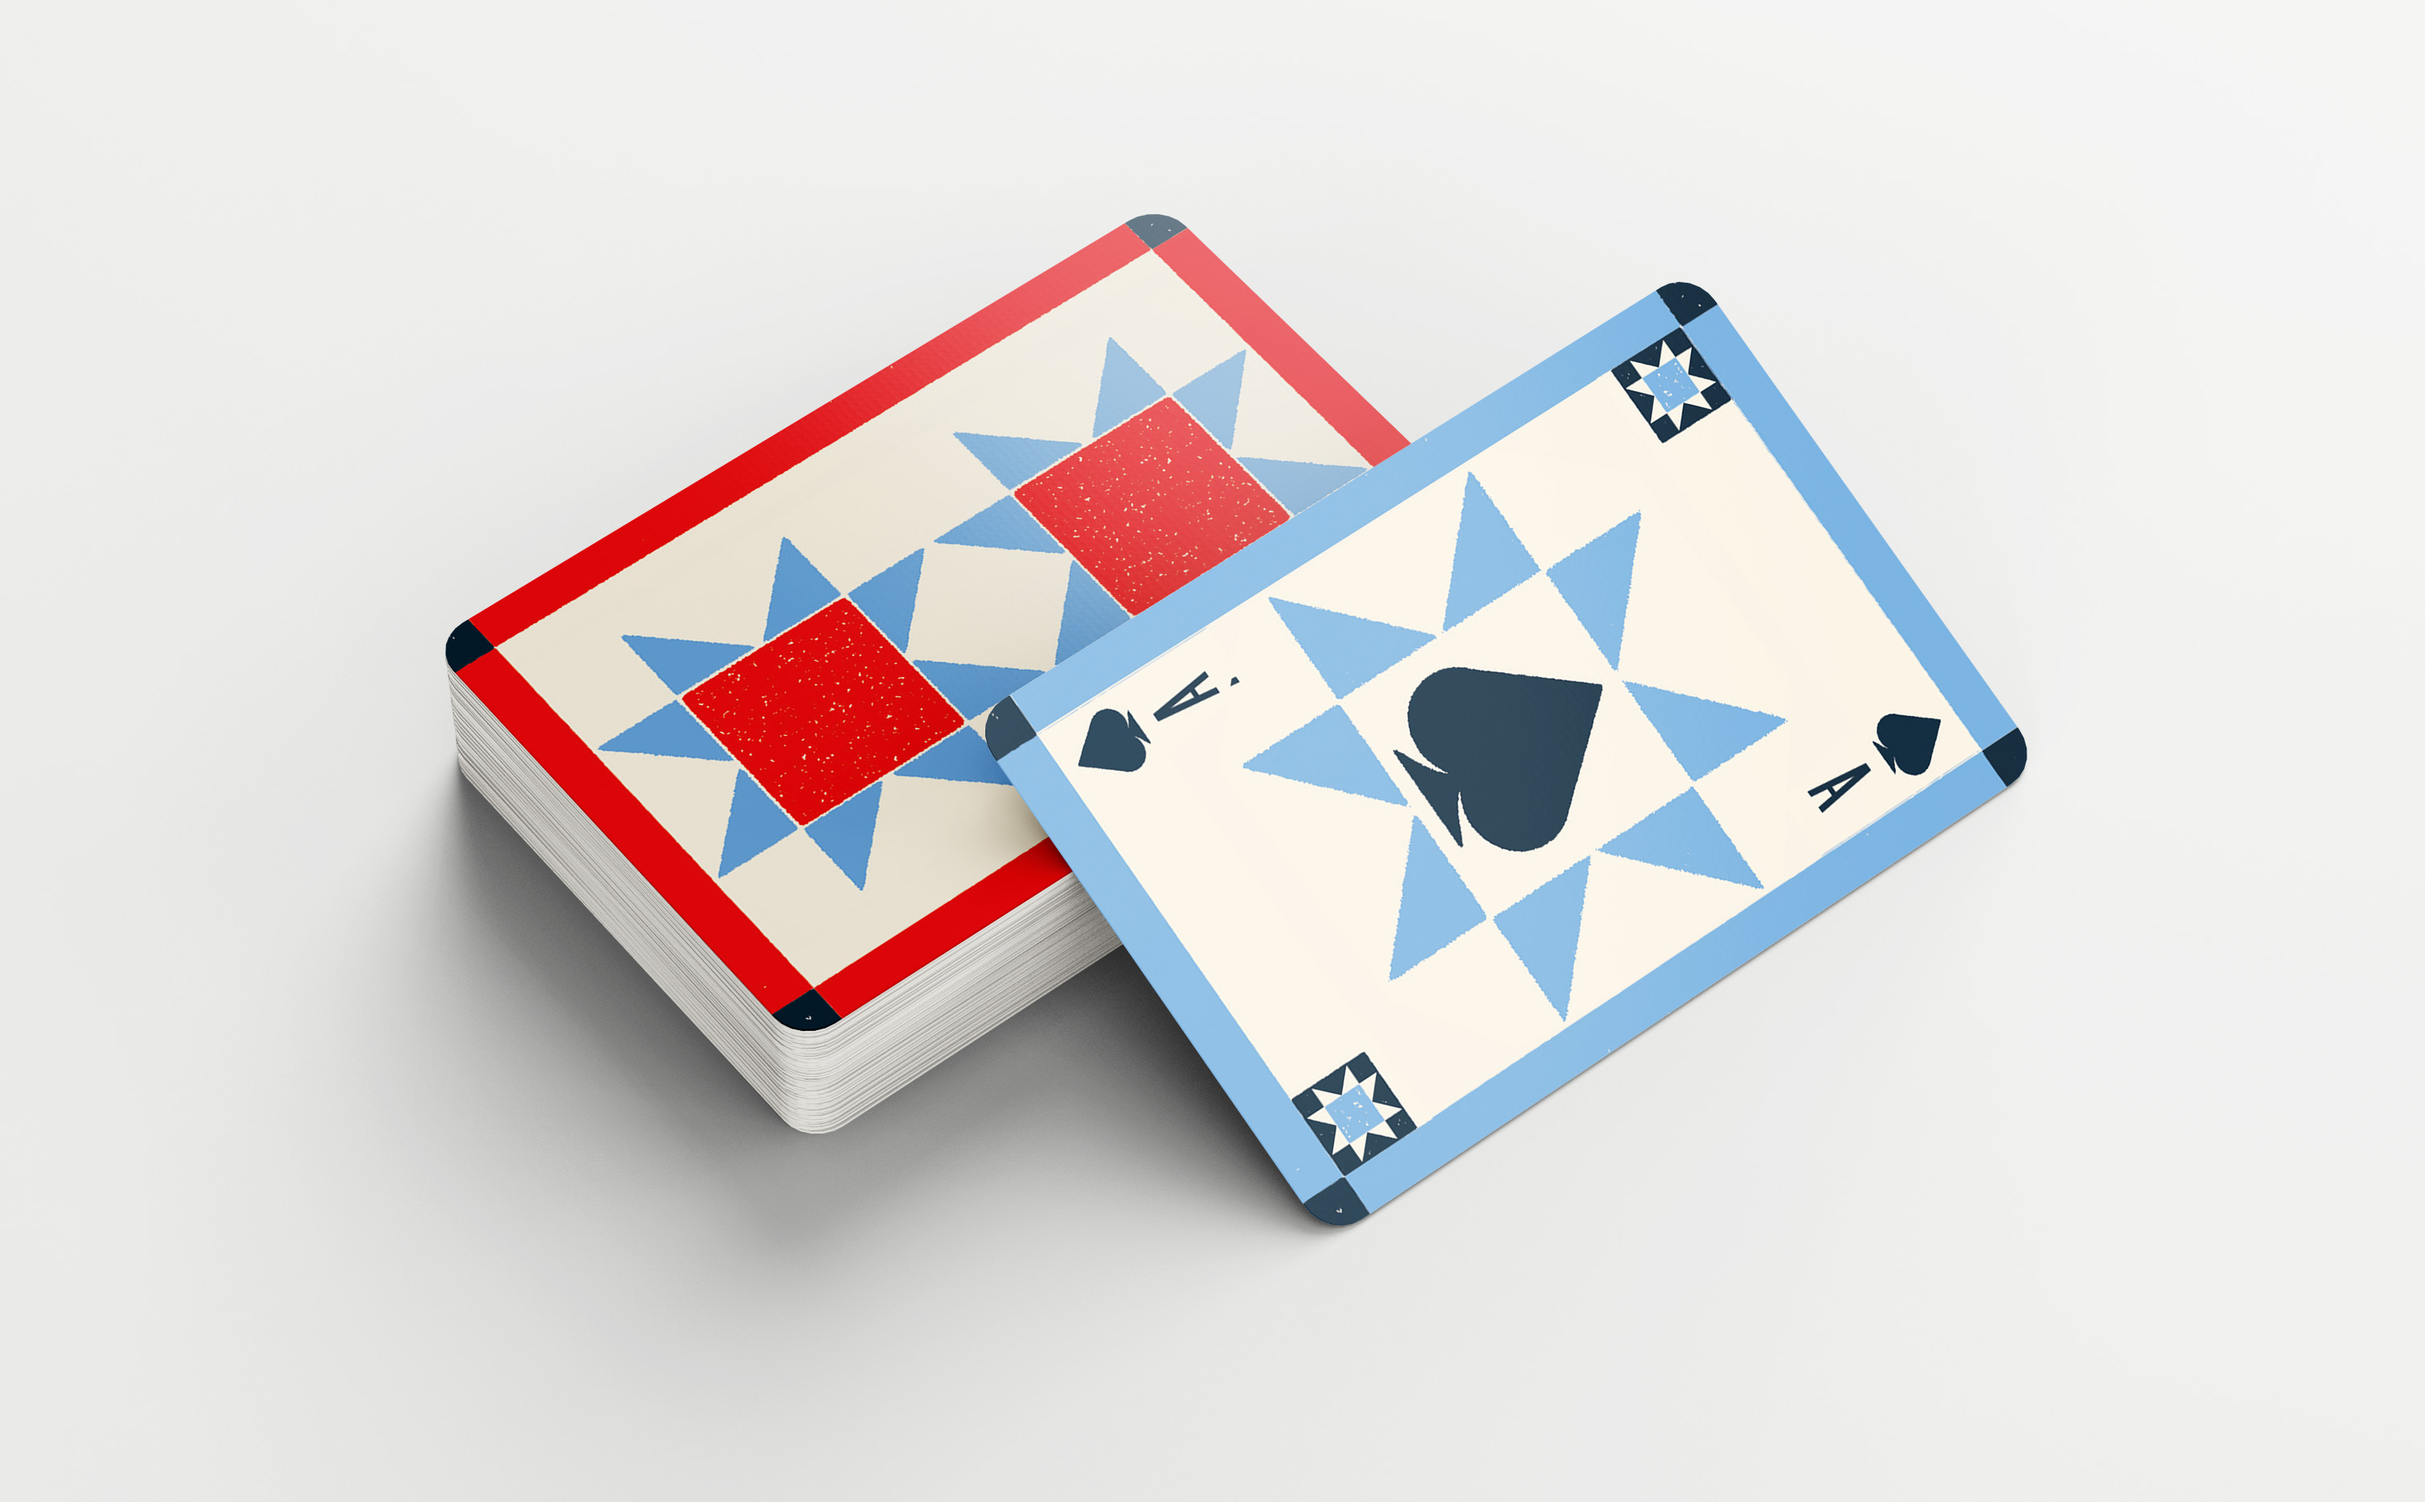
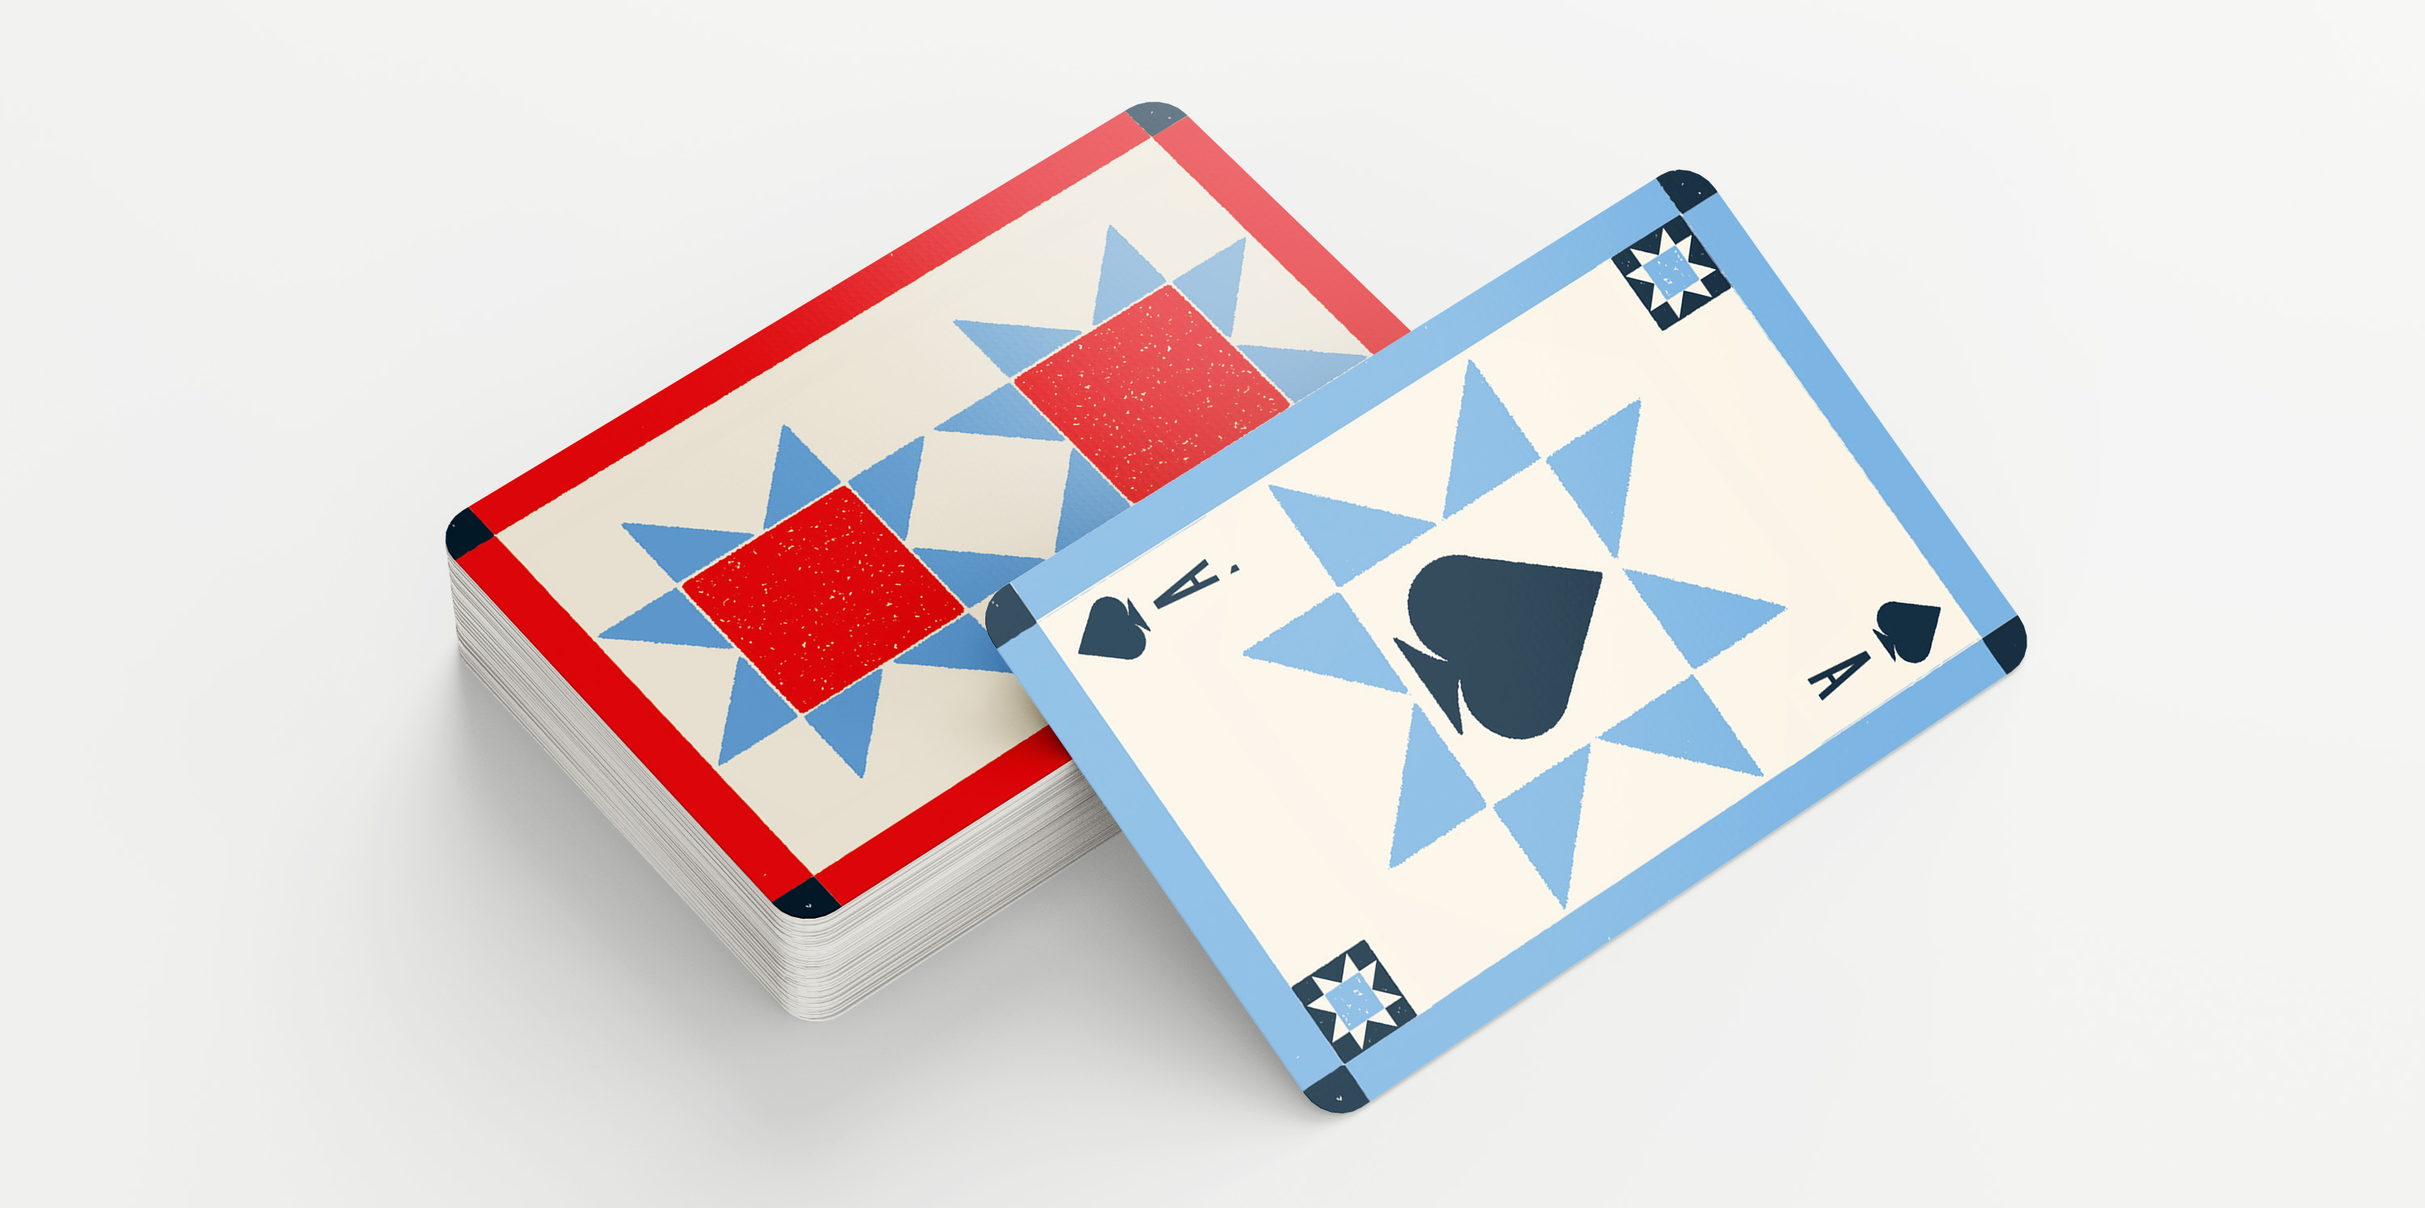
add some images, fix some stuff

Changed region(s): [[0.155, 0.0615, 0.837, 0.9231], [0.62, 0.3385, 0.682, 0.3692]]

diff --git a/work/slainte.html b/work/slainte.html
@@ -86,6 +86,12 @@
         <img src="../images/slainte/cover.png"
              alt="Sláinte Motherf**ckers!">
 
+          <img src="../images/slainte/spine.jpg"
+             alt="Sláinte Motherf**ckers!">
+        
+        <img src="../images/slainte/interview.jpg"
+             alt="Sláinte Motherf**ckers!">
+
         <img src="../images/slainte/contents.jpg"
              alt="Sláinte Motherf**ckers!">
 
@@ -114,6 +120,9 @@
              alt="Sláinte Motherf**ckers!">
 
         <img src="../images/slainte/connect1.jpg"
+             alt="Sláinte Motherf**ckers!">
+
+         <img src="../images/slainte/connect4.jpg"
              alt="Sláinte Motherf**ckers!">
 
          <img src="../images/slainte/capture3.jpg"

diff --git a/index.html b/index.html
@@ -184,8 +184,8 @@
                     <span>05</span>
 
                     <div>
-                        <h2>THE BLUEST EYE</h2>
-                        <p>BOOK / EDITORIAL</p>
+                        <h2>ECHOES</h2>
+                        <p>ARTIST BOOK / PRINT</p>
                     </div>
 
                 </div>
